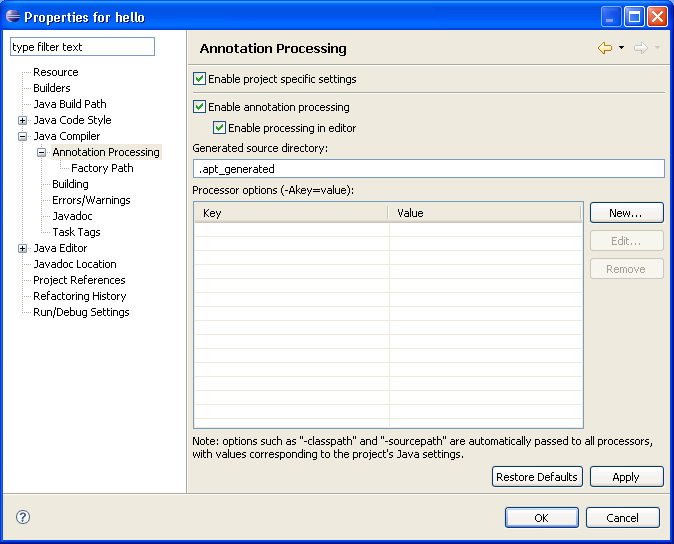
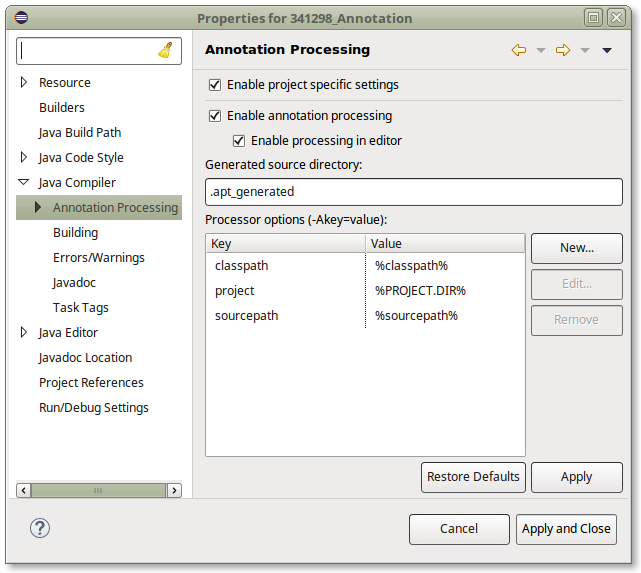
Bug 515329 - Update APT help content
- Add documentation on automatic processor option variables
  (see https://bugs.eclipse.org/bugs/show_bug.cgi?id=341298)
- Consolidate and link different help pages
- Update screenshot to reflect removal of note that is only true
  for Java 5 processors (and other screenshots for consistency)

Changed region(s): [[0.0, 0.0, 1.0, 1.0]]

diff --git a/bundles/org.eclipse.jdt.doc.user/reference/ref-apt-processorOptionsInput.htm b/bundles/org.eclipse.jdt.doc.user/reference/ref-apt-processorOptionsInput.htm
@@ -13,6 +13,7 @@
     </h1>
     <p>The Processor Option input dialog is reached from the <a href="ref-apt-config.htm">Annotation Processing
     preferences pane</a>.  It allows processor options to be added or modified.</p>  
+
     <p>Options entered here will be presented to processors using the Java 5 Mirror APIs through the 
     AnnotationProcessorEnvironment interface, or to processors using the Java 6 annotation processing
     APIs through the ProcessingEnvironment interface.  For Java 5 processors, in order to be compatible
@@ -21,15 +22,24 @@
     &quot;-Akey=value&quot;. For instance, an option with key &quot;foo&quot; and value &quot;bar&quot; would be presented
     both that way and as key &quot;-Afoo=bar&quot;, value null. For Java 6 processors, the options are
     simply presented as a map of key/value pairs, without the -A and without the combined -Akey=value form.</p>
-    <p>Option values representing paths may begin with a percent-delimited token such as <code>%FOO%/</code>.  
-    If the token is the name of a classpath variable, it will be replaced with the current
-    value of the variable at processor execution time.  The special value <code>ROOT</code> expands
-    to the absolute path of the workspace.  For example, <code>%ROOT%/foo/bar.xml</code> might 
-    expand to <code>d:/my_workspace/foo/bar.xml</code>, and <code>%JRE_LIB%/rt.jar</code> might 
-    expand to <code>c:/jdk1.5.0/lib/rt.jar</code>.  Similarly, the special value <code>PROJECT.DIR</code>
-    expands to the absolute path of the current project.</p>
-    <p>Certain options are automatically provided to the processors; entering them in this dialog
-    will have no effect, since the automatically provided values will override any values set here.  
-    The automatic options are described <a href="ref-apt-automaticProcessorOptions.htm">here</a>.</p>
+
+    <p>Option values representing paths may begin with a percent-delimited token such as <code>%FOO%/</code>. 
+    If the token is the name of a <a href="PLUGINS_ROOT/org.eclipse.jdt.doc.user/concepts/concept-classpath-variables.htm">
+    classpath variable</a>, it will be replaced with the current value of the variable at processor execution time. 
+    For example, if <code>FOO</code> is a classpath variable that points to <code>d:/foo</code>, then 
+    <code>%FOO%/bar.txt</code> will resolve to <code>d:/foo/bar.txt</code> when the processor is called. If the 
+    classpath variable does not exist, then the raw string (&quot;%FOO%&quot; in this example) will be added to the 
+    environment options. However, the remainder of the string (&quot;bar.txt&quot; in this example) does not need to exist. 
+    The special value <code>ROOT</code> expands to the absolute path of the workspace. For example, 
+    <code>%ROOT%/foo/bar.xml</code> might expand to <code>d:/my_workspace/foo/bar.xml</code>. When using ROOT, the first 
+    segment of the path must actually exist: in the example, the project <code>foo</code> must exist, but 
+    <code>bar.xml</code> need not. Similarly, the special value <code>PROJECT.DIR</code> expands to the absolute path of 
+    the current project.</p>
+
+    <p>Certain options such as <code>-classpath</code> and <code>-sourcepath</code> are automatically provided to the 
+    processors (for Java 5 processors; entering them in this dialog will have no effect, since the automatically provided 
+    values will override any values set here), or provided to the processors as variables such as <code>%classpath%</code> 
+    or <code>%sourcepath%</code> (for Java 6 processors). The automatic options are described 
+    <a href="ref-apt-automaticProcessorOptions.htm">here</a>.</p>
   </body>
 </html>

diff --git a/bundles/org.eclipse.jdt.doc.isv/guide/jdt_apt_getting_started.htm b/bundles/org.eclipse.jdt.doc.isv/guide/jdt_apt_getting_started.htm
@@ -69,9 +69,9 @@ Java-&gt;Compiler-&gt;Annotation Processing:</p>
 In this dialog you can also specify the generated source directory if desired,
 and provide any processor options that are necessary.</p>
 <p>
-<b>Note: "-Aclasspath" and "-Asourcepath" options are automatically passed
-to all your Java 5 processors by Eclipse, so it is unnecessary to provide those.</b>
-</p>
+For details, see the documentation on the
+<a href="PLUGINS_ROOT/org.eclipse.jdt.doc.user/reference/ref-apt-config.htm">annotation processing preferences</a>.</p>
+
 <h3>Adding Annotation Processors</h3>
 You can add annotation processors to your project under Java-&gt;Compiler-&gt;Annotation Processing-&gt;Factory Path:
 
@@ -94,31 +94,18 @@ debugging.</p>
 <p>The factory path is stored in a file named &quot;.factorypath&quot; at the project root,
 similar to the classpath, and should be treated the same way as the classpath with regard to
 version control. In order to avoid hard-coding paths to factory jars, you can either use project-relative jars
-via the "Add Jars..." button, or use a classpath variable via the "Add Variable..." button.</p>
+via the "Add Jars..." button, or use a 
+<a href="PLUGINS_ROOT/org.eclipse.jdt.doc.user/concepts/concept-classpath-variables.htm">classpath variable</a> via the "Add Variable..." button.</p>
 
 <h3>Processor Options and Source Control</h3>
 
 <p>
 Processor options are stored in the .settings folder within each project, which is also
 where other compiler options are stored. All files within the .settings folder are typically
-managed with source control.</p>
-<p>
-You may need to use paths as some of the options passed to your annotation processors.
+managed with source control. You may need to use paths as some of the options passed to your annotation processors.
 Again, by avoiding hard-coding of absolute paths you'll be able to share your configuration
-in source control. To permit this, Eclipse supports using classpath variables inside of processor options.
-Variables are delimited on both sides by %, and must be the first segment of a path.</p>
-<p>
-For example, if FOO is a classpath variable that points to d:/foo, then %FOO%/bar.txt 
-will resolve to d:/foo/bar.txt when the processor is called.  If the classpath
-variable does not exist, then the raw string (&quot;%FOO%&quot; in this example) will be added to 
-the environment options.  However, the remainder of the string (&quot;bar.txt&quot; in this example) 
-does not need to exist.</p>
-<p>
-The reserved variable ROOT is given special meaning: it is the workspace root, 
-and introduces a project resource.  For instance, if quux is the name of a 
-project, then %ROOT%/quux will resolve to the absolute path of quux and 
-%ROOT%/quux/.classpath will resolve to the absolute path of the file .classpath
-within project quux.  When using ROOT, the first segment of the path must 
-actually exist: in the example, the project quux must exist, but .classpath need not.</p>
+in source control. To permit this, Eclipse supports using variables in processor options. For details, see the 
+<a href="PLUGINS_ROOT/org.eclipse.jdt.doc.user/reference/ref-apt-processorOptionsInput.htm">processor options documentation</a>.
+</p>
 </body>
 </html>

diff --git a/bundles/org.eclipse.jdt.doc.user/reference/ref-apt-automaticProcessorOptions.htm b/bundles/org.eclipse.jdt.doc.user/reference/ref-apt-automaticProcessorOptions.htm
@@ -12,10 +12,10 @@
       Automatic Processor Options
     </h1>
     <p>Annotation processor options are configured in the 
-    <a href="ref-apt-config.htm">Annotation Processing preference dialog</a>.  Certain options 
-    are automatically provided to processors using the Java 5 Mirror API; entering them in the Annotation Processing 
-    preference dialog will have no effect, since the automatically provided values will 
-    override any values set there.  The automatic options include the following:</p>
+    <a href="ref-apt-config.htm">Annotation Processing preference dialog</a>. Certain options are automatically 
+    provided to the processors (for Java 5 processors; entering them in this dialog will have no effect, since 
+    the automatically provided values will override any values set here), or provided to the processors as 
+    variables (for Java 6 processors, see details below). The automatic options include the following:</p>
     <dl>
     	<dt><strong>-classpath</strong></dt>
     	<dd>
@@ -51,7 +51,10 @@
     	</dd>
     </dl>
     <p>Except for <code>phase</code>, there are no automatically provided options for processors 
-    using the Java 6 annotation processing API, because the JavaFileManager methods provide the same functionality.</p> 
+    using the Java 6 annotation processing API, where JavaFileManager methods provide similar functionality. 
+    However, the values of the automatic options are made available to Java 6 processors as variables like 
+    <code>%classpath%</code> or <code>%sourcepath%</code> when 
+    <a href="ref-apt-processorOptionsInput.htm">setting up processor options</a>.</p>
   </body>
 </html>
 

diff --git a/bundles/org.eclipse.jdt.doc.user/reference/ref-apt-config.htm b/bundles/org.eclipse.jdt.doc.user/reference/ref-apt-config.htm
@@ -54,11 +54,12 @@
     </h2>
     <p>Options entered here will be available via the AnnotationProcessorEnvironment interface (for Java
     5 processors) or the ProcessingEnvironment interface (for Java 6 processors).  
-    Certain options are automatically provided to Java 5 processors; entering them in this dialog
-    will have no effect, since the automatically provided values will override any values set here.  
-    The automatic options are described <a href="ref-apt-automaticProcessorOptions.htm">here</a>. More
-    information about processor options is in the topic on <a href="ref-apt-processorOptionsInput.htm">the
-    Processor Options input dialog</a>.</p>
+    Certain options such as <code>-classpath</code> and <code>-sourcepath</code> are automatically provided to 
+    Java 5 processors; entering them in this dialog will have no effect, since the automatically provided values 
+    will override any values set here. For Java 6 processors, the values of these automatic options are made 
+    available as variables such as <code>%classpath%</code> and <code>%sourcepath%</code>. The automatic options 
+    are described <a href="ref-apt-automaticProcessorOptions.htm">here</a>. More information about processor options 
+    is in the topic on <a href="ref-apt-processorOptionsInput.htm">the Processor Options input dialog</a>.</p>
   </body>
 </html>
 
